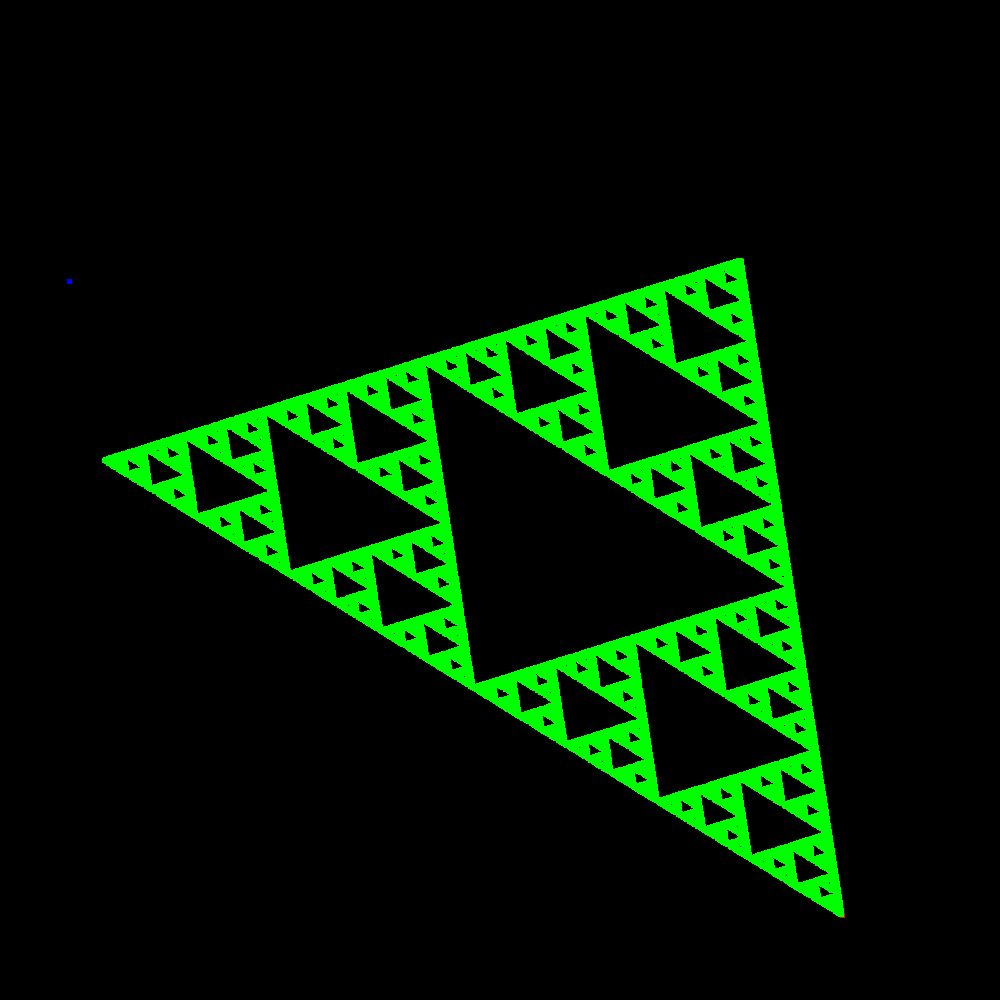
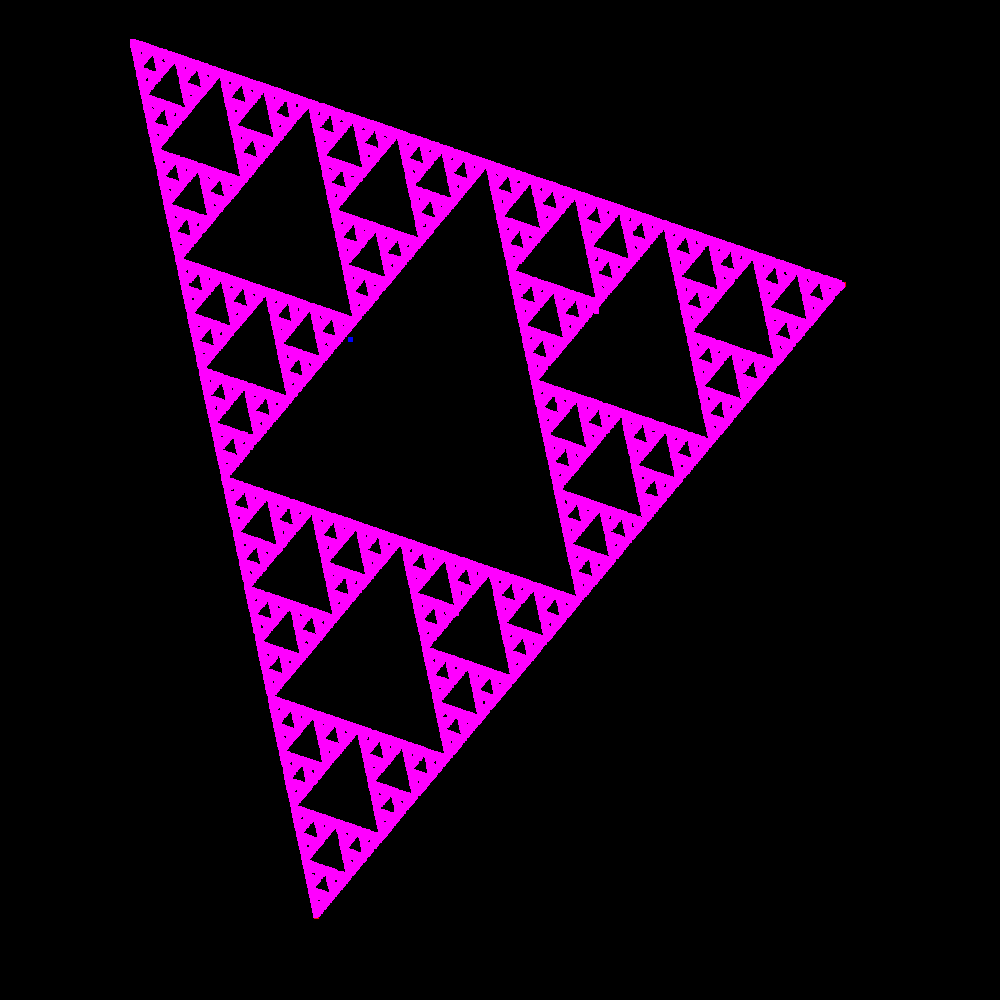
Change color points

Changed region(s): [[0.093, 0.031, 0.868, 0.93]]

diff --git a/README.md b/README.md
@@ -6,4 +6,4 @@ Sierpinski triangle made using Scala
 ### Points
 * Red - three points of the triangle
 * Blue - first random point
-* Green - random point
+* Magenta - random point
